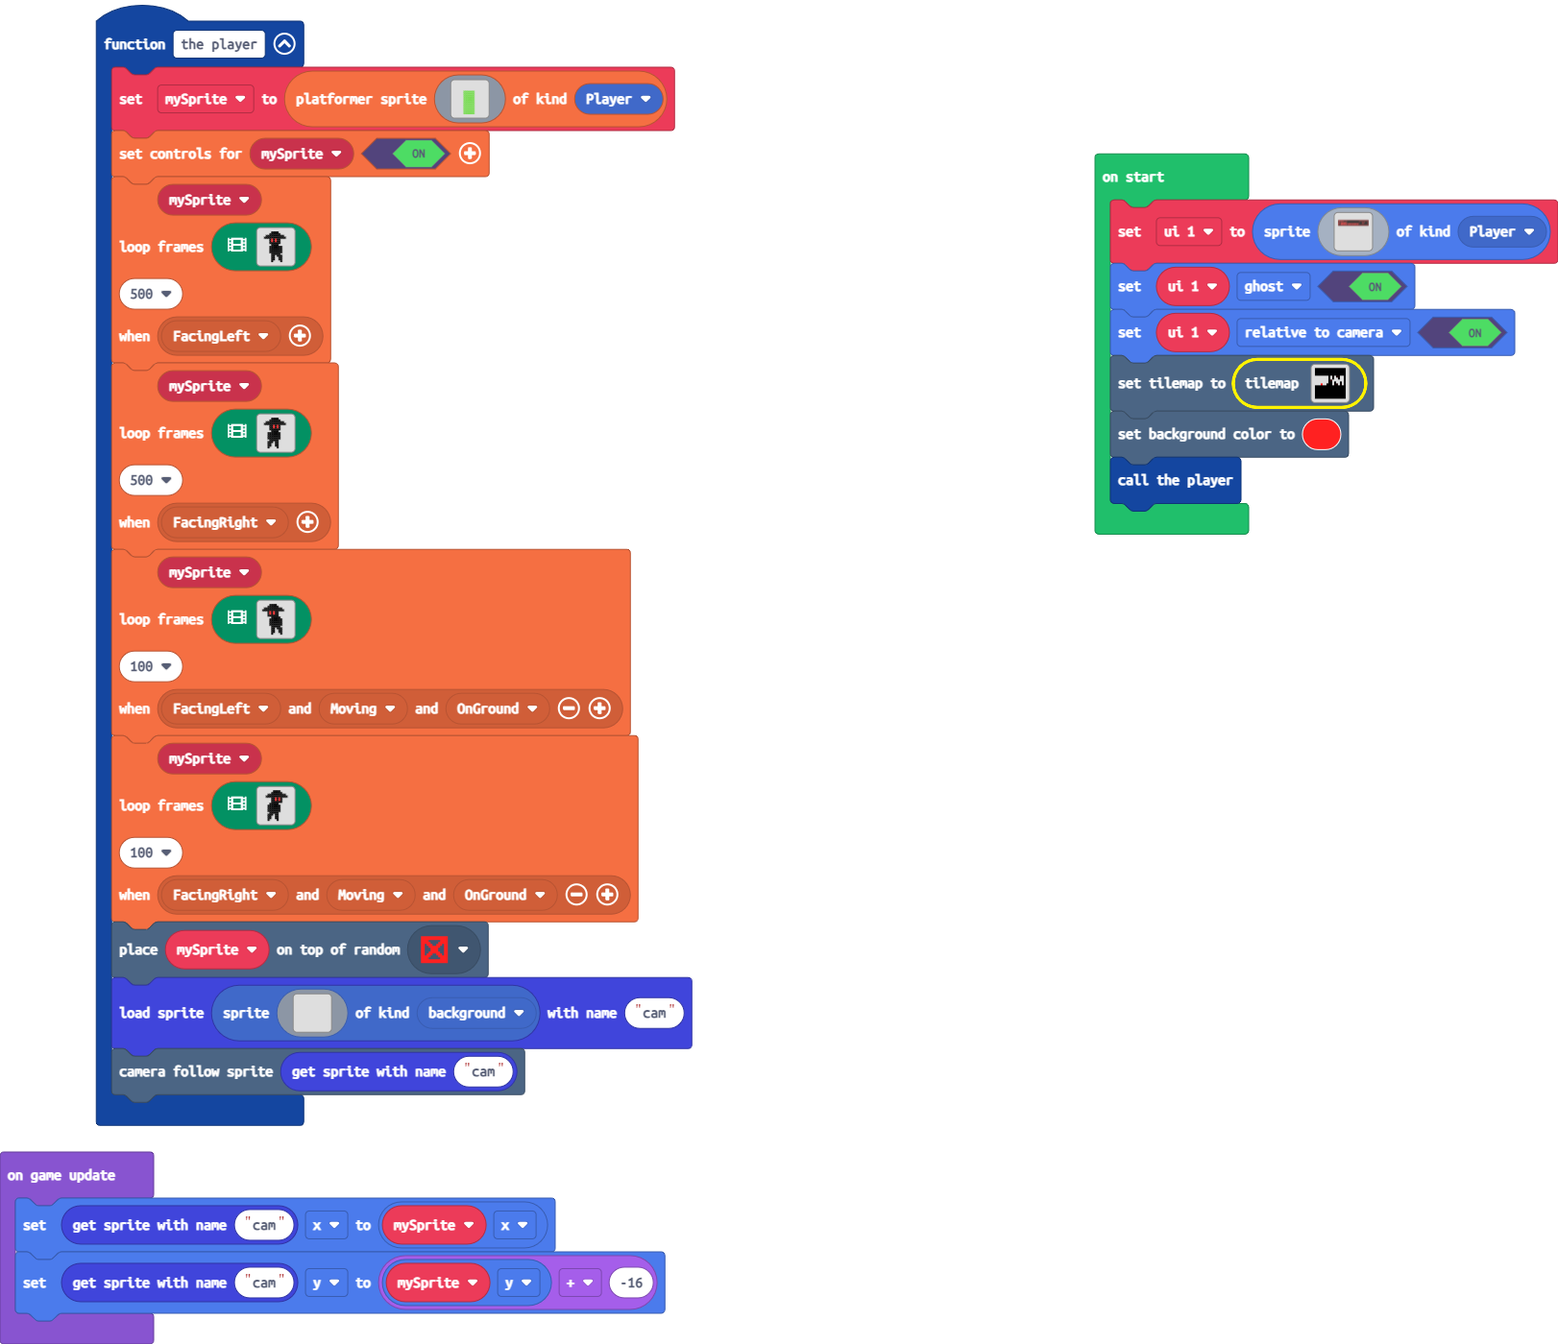
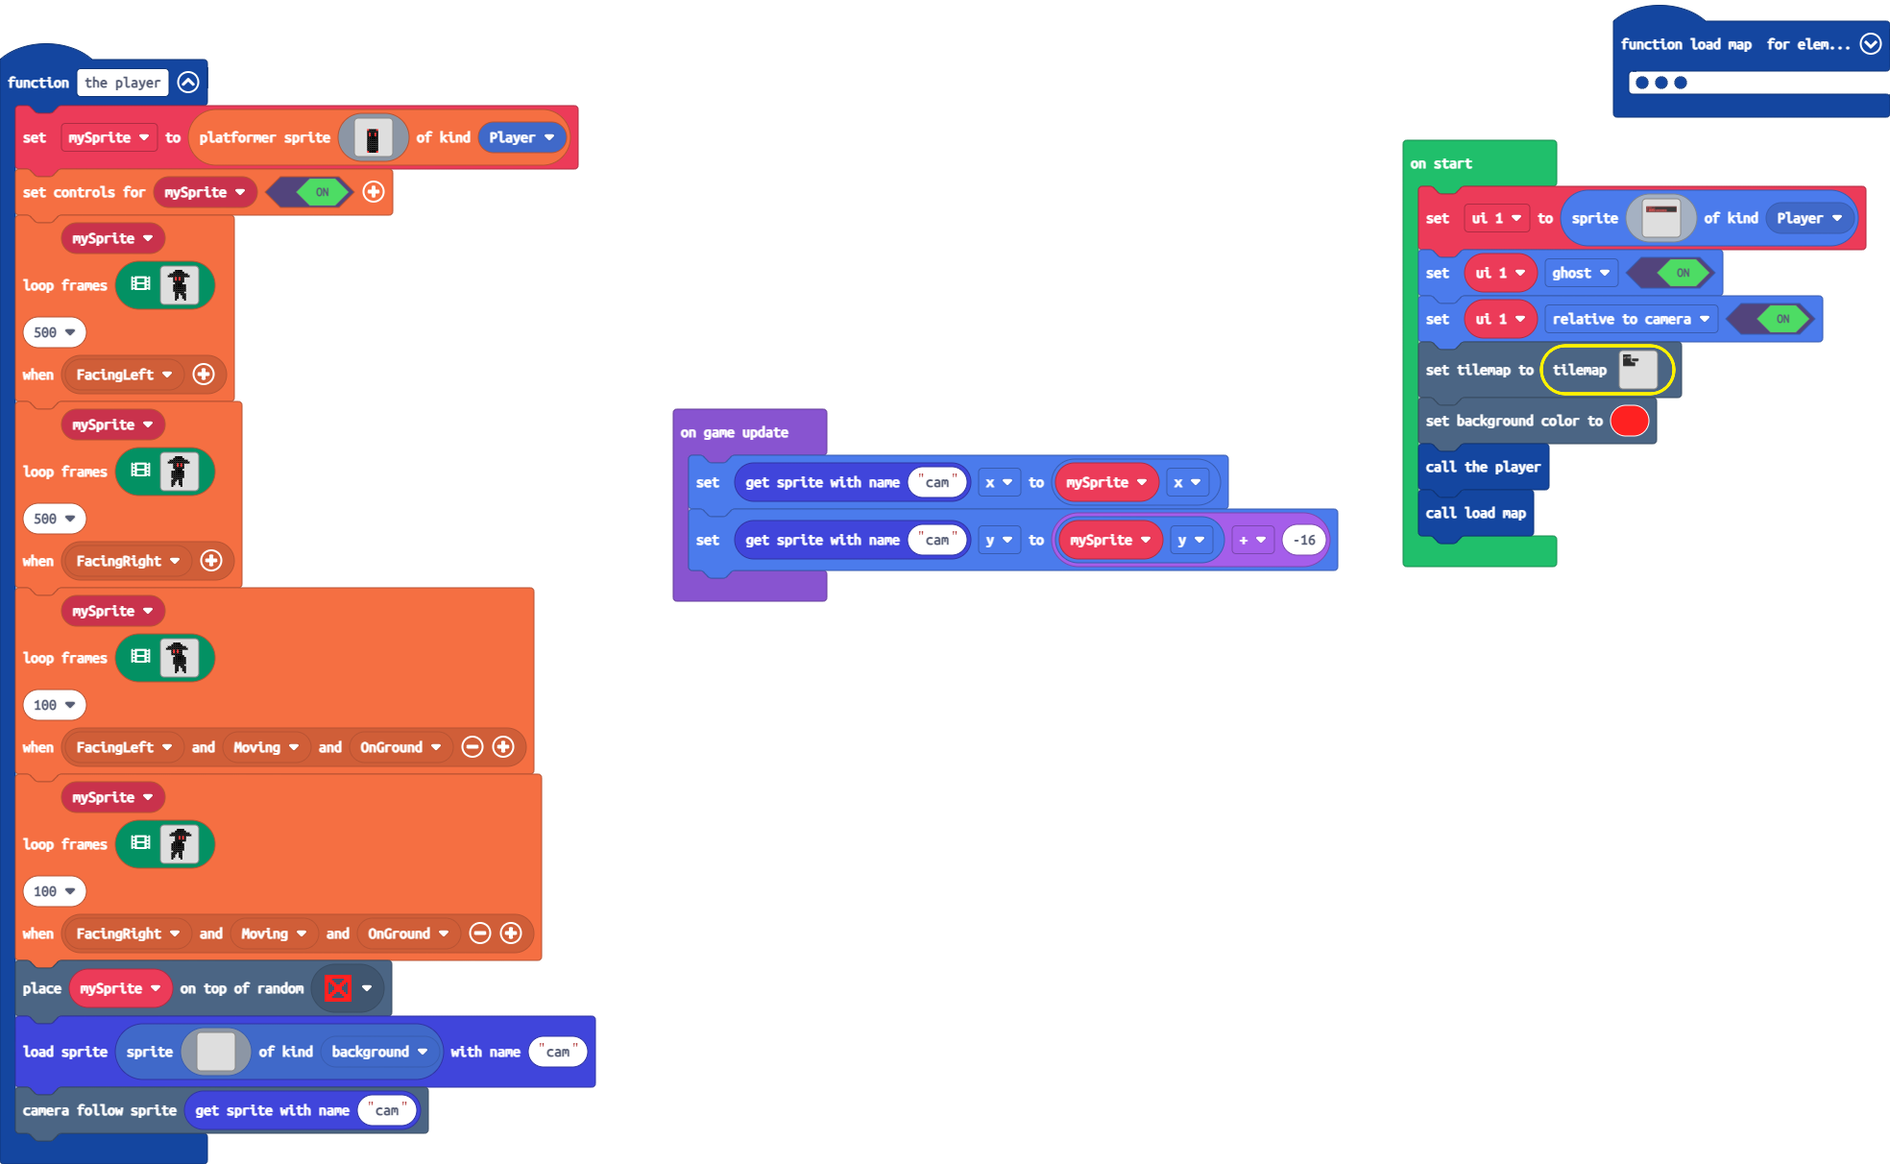
Update pxt.json, main.blocks, main.ts, tilemap.g.jres, tilemap.g.ts

diff --git a/tilemap.g.ts b/tilemap.g.ts
@@ -11,25 +11,21 @@ namespace myTiles {
     //% fixedInstance jres blockIdentity=images._tile
     export const tile4 = image.ofBuffer(hex``);
     //% fixedInstance jres blockIdentity=images._tile
-    export const tile5 = image.ofBuffer(hex``);
-    //% fixedInstance jres blockIdentity=images._tile
     export const tile6 = image.ofBuffer(hex``);
     //% fixedInstance jres blockIdentity=images._tile
-    export const tile7 = image.ofBuffer(hex``);
-    //% fixedInstance jres blockIdentity=images._tile
-    export const tile8 = image.ofBuffer(hex``);
-    //% fixedInstance jres blockIdentity=images._tile
     export const tile9 = image.ofBuffer(hex``);
-    //% fixedInstance jres blockIdentity=images._tile
-    export const tile12 = image.ofBuffer(hex``);
     //% fixedInstance jres blockIdentity=images._tile
     export const tile11 = image.ofBuffer(hex``);
     //% fixedInstance jres blockIdentity=images._tile
     export const tile13 = image.ofBuffer(hex``);
     //% fixedInstance jres blockIdentity=images._tile
-    export const tile10 = image.ofBuffer(hex``);
-    //% fixedInstance jres blockIdentity=images._tile
     export const tile14 = image.ofBuffer(hex``);
+    //% fixedInstance jres blockIdentity=images._tile
+    export const tile5 = image.ofBuffer(hex``);
+    //% fixedInstance jres blockIdentity=images._tile
+    export const tile8 = image.ofBuffer(hex``);
+    //% fixedInstance jres blockIdentity=images._tile
+    export const tile7 = image.ofBuffer(hex``);
 
     helpers._registerFactory("tilemap", function(name: string) {
         switch(helpers.stringTrim(name)) {
@@ -52,25 +48,92 @@ namespace myTiles {
 . . . . . . . . . . . . . . . . 
 . . . . . . . . . . . . . . . . 
 `, [myTiles.transparency16], TileScale.Sixteen);
+            case "level3":
+            case "level3":return tiles.createTilemap(hex`1000100000000000000000000000000000000000000000000000000000000000000000000000000000000000000000000000000000000000000000000000000000000000000000000000000000000000000000000000000000000000000000000000000000000000000000000000000000000000000000000000000000000000000000000000000000000000000000000000000000000000000000000000000000000000000000000000000000000000000000000000000000000000000000000000000000000000000000000000000000000000000000000000000000000000000000000000000000000000000000000000000000000000000000000000000000000000`, img`
+. . . . . . . . . . . . . . . . 
+. . . . . . . . . . . . . . . . 
+. . . . . . . . . . . . . . . . 
+. . . . . . . . . . . . . . . . 
+. . . . . . . . . . . . . . . . 
+. . . . . . . . . . . . . . . . 
+. . . . . . . . . . . . . . . . 
+. . . . . . . . . . . . . . . . 
+. . . . . . . . . . . . . . . . 
+. . . . . . . . . . . . . . . . 
+. . . . . . . . . . . . . . . . 
+. . . . . . . . . . . . . . . . 
+. . . . . . . . . . . . . . . . 
+. . . . . . . . . . . . . . . . 
+. . . . . . . . . . . . . . . . 
+. . . . . . . . . . . . . . . . 
+`, [myTiles.transparency16], TileScale.Sixteen);
             case "testmap":
[1 lines of base64/hex data omitted]
-2 2 2 2 2 2 2 2 2 2 2 2 2 2 2 2 
-2 2 2 2 2 2 2 2 2 2 2 2 2 2 2 2 
-2 2 2 2 2 2 2 2 2 2 2 2 2 2 2 2 
-2 2 2 2 2 2 2 2 2 2 2 2 2 2 2 2 
-. . . . . . . . . . . . . . . . 
-. . . . . . . . . . . . . . . . 
-. . . . . . . . . . . . . . . . 
-. . . . . . . 2 2 . . . . . . . 
-. . . . . . . 2 2 . . . . . . . 
-2 2 2 2 2 2 2 2 2 2 2 2 2 2 2 2 
-2 2 2 2 2 2 2 2 2 2 2 2 2 2 2 2 
-2 2 2 2 2 2 2 2 2 2 2 2 2 2 2 2 
-2 2 2 2 2 2 2 2 2 2 2 2 2 2 2 2 
-2 2 2 2 2 2 2 2 2 2 2 2 2 2 2 2 
-2 2 2 2 2 2 2 2 2 2 2 2 2 2 2 2 
-2 2 2 2 2 2 2 2 2 2 2 2 2 2 2 2 
-`, [myTiles.transparency16,myTiles.tile1,myTiles.tile2,myTiles.tile3,myTiles.tile5,myTiles.tile6,myTiles.tile7,myTiles.tile10,myTiles.tile8,myTiles.tile9,myTiles.tile13,myTiles.tile14], TileScale.Sixteen);
+            case "level2":return tiles.createTilemap(hex`4000400001010101010101010101010101010101000000000000000000000000000000000000000000000000000000000000000000000000000000000000000000000000010101010101010101010101010101010000000000000000000000000000000000000000000000000000000000000000000000000000000000000000000000000101010101010101010101010101010100000000000000000000000000000000000000000000000000000000000000000000000000000000000000000000000001010101010101010101010101010101000000000000000000000000000000000000000000000000000000000000000000000000000000000000000000000000010101010005060700050600050000070000000000000000000000000000000000000000000000000000000000000000000000000000000000000000000000000106050600060007000600000600000700000000000000000000000000000000000000000000000000000000000000000000000000000000000000000000000006000600000000070000000000000007000000000000000000000000000000000000000000000000000000000000000000000000000000000000000000000000000400000004040101000400000400070000000000000000000000000000000000000000000000000000000000000000000000000000000000000000000000000403000200030101010003040003000700000000000000000000000000000000000000000000000000000000000000000000000000000000000000000000000001010101010101010101010101010101080000010101010101010101010101010000000000000000000000000000000000000000000000000000000000000000010101010101010101010101010101010000000101010101010101010101010100000000000000000000000000000000000000000000000000000000000000000101010101010101010101010101010100000001010101010101010101010101000000000000000000000000000000000000000000000000000000000000000001010101010101010101010101010101000000050101010101010101010101010000000000000000000000000000000000000000000000000000000000000000010101010101010101010101010101010000000600010101010101010101010000000000000000000000000000000000000000000000000000000000000000000101010101010101010101010101010100000000000000000000000000000000000000000000000000000000000000000000000000000000000000000000000001010101010101010101010101010101010000000000000000000000000000000000000000000000000000000000000000000000000000000000000000000000010101010101010101010101010101010101010000000000000000000000000000000000000000000000000000000000000000000000000000000000000000000101010101010101010101010101010101010101010101010100000000000000000000000000000000000000000000000000000000000000000000000000000001010101010101010101010101010101010101010101010101000000000000000000000000000000000000000000000000000000000000000000000000000000010101010101010101010101010101010101010101010101010000000000000000000000000000000000000000000000000000000000000000000000000000000101010101010101010101010101010101010101010101010100000000000000000000000000000000000000000000000000000000000000000000000000000001010101010101010101010101010101010101010101010101000000000000000000000000000000000000000000000000000000000000000000000000000000010101010101010101010101010101010101010101010101010000000000000000000000000000000000000000000000000000000000000000000000000000000101010101010101010101010101010101010101010101010100000000000000000000000000000000000000000000000000000000000000000000000000000000000000000000000000000000000000000000000000000000000000000000000000000000000000000000000000000000000000000000000000000000000000000000000000000000000000000000000000000000000000000000000000000000000000000000000000000000000000000000000000000000000000000000000000000000000000000000000000000000000000000000000000000000000000000000000000000000000000000000000000000000000000000000000000000000000000000000000000000000000000000000000000000000000000000000000000000000000000000000000000000000000000000000000000000000000000000000000000000000000000000000000000000000000000000000000000000000000000000000000000000000000000000000000000000000000000000000000000000000000000000000000000000000000000000000000000000000000000000000000000000000000000000000000000000000000000000000000000000000000000000000000000000000000000000000000000000000000000000000000000000000000000000000000000000000000000000000000000000000000000000000000000000000000000000000000000000000000000000000000000000000000000000000000000000000000000000000000000000000000000000000000000000000000000000000000000000000000000000000000000000000000000000000000000000000000000000000000000000000000000000000000000000000000000000000000000000000000000000000000000000000000000000000000000000000000000000000000000000000000000000000000000000000000000000000000000000000000000000000000000000000000000000000000000000000000000000000000000000000000000000000000000000000000000000000000000000000000000000000000000000000000000000000000000000000000000000000000000000000000000000000000000000000000000000000000000000000000000000000000000000000000000000000000000000000000000000000000000000000000000000000000000000000000000000000000000000000000000000000000000000000000000000000000000000000000000000000000000000000000000000000000000000000000000000000000000000000000000000000000000000000000000000000000000000000000000000000000000000000000000000000000000000000000000000000000000000000000000000000000000000000000000000000000000000000000000000000000000000000000000000000000000000000000000000000000000000000000000000000000000000000000000000000000000000000000000000000000000000000000000000000000000000000000000000000000000000000000000000000000000000000000000000000000000000000000000000000000000000000000000000000000000000000000000000000000000000000000000000000000000000000000000000000000000000000000000000000000000000000000000000000000000000000000000000000000000000000000000000000000000000000000000000000000000000000000000000000000000000000000000000000000000000000000000000000000000000000000000000000000000000000000000000000000000000000000000000000000000000000000000000000000000000000000000000000000000000000000000000000000000000000000000000000000000000000000000000000000000000000000000000000000000000000000000000000000000000000000000000000000000000000000000000000000000000000000000000000000000000000000000000000000000000000000000000000000000000000000000000000000000000000000000000000000000000000000000000000000000000000000000000000000000000000000000000000000000000000000000000000000000000000000000000000000000000000000000000000000000000000000000000000000000000000000000000000000000000000000000000000000000000000000000000000000000000000000000000000000000000000000000000000000000000000000000000000000000000000000000000000000000000000000000000000000000000000000000000000000000000000000000000000000000000000000000000000000000000000000000000000000000000000000000000000000000000000000000000000000000000000000000000000000000000000000000000000000000000000000000000000000000000000000000000000000000000000000000000000000000000000000000000000000000000000000000000000000000000000000000000000000000000000000000000000000000000000000000000000000000000000000000000000000000000000000000000000000000000000000000000000000000000000000000000000000000000000000000000000000000000000000000000000000000000000000000000000000000000000000000000000000000000000000000000000000000000000000000000000000000000000000000000000000000000000000000000000000000000000000000000000000000000000000000000000000000000000000000000000000000000000000000000000000000000000000000000000000000000000000000000000000000000000000000000000000000000000000000000000000000000000000000000000000000000000000000000000000000000000000000000000000000000000000000000000000000000000000000000000000000000000000000000000000000000000000000000000000000000000000000000000000000000000000000000000000000000000000000000000000000000000000000000000000000000000000000000000000000000000000000000000000000000000000000000000000000000000000000000000000000000000000000000000000000000000000000000000000000000000000000000000000000000000000000000000000000000000000000000000000000000000000000000000000000000000000000000000000000000000000000000000000000000000000000000000000000000000000000000000000000000000000000000000000000000000000000000000000000000000000000000000000000000000000000000000000000000000000000000000000000000000000000000000000000000000000000000000000000000000000000000000000000000000000000000000000000000000000000000000000000000000000000000000000000000000000000000000000000000000000000000000000000000000000000000000000000000000000000000000000000000000000000000000000000000000000000`, img`
+2222222222222222................................................
+2222222222222222................................................
+2222222222222222................................................
+2222222222222222................................................
+2222............................................................
+2...............................................................
+................................................................
+.......22.......................................................
+......222.......................................................
+22222222222222222..2222222222222................................
+2222222222222222...2222222222222................................
+2222222222222222...2222222222222................................
+2222222222222222....222222222222................................
+2222222222222222.....2222222222.................................
+2222222222222222................................................
+22222222222222222...............................................
+2222222222222222222.............................................
+2222222222222222222222222.......................................
+2222222222222222222222222.......................................
+2222222222222222222222222.......................................
+2222222222222222222222222.......................................
+2222222222222222222222222.......................................
+2222222222222222222222222.......................................
+2222222222222222222222222.......................................
+................................................................
+................................................................
+................................................................
+................................................................
+................................................................
+................................................................
+................................................................
+................................................................
+................................................................
+................................................................
+................................................................
+................................................................
+................................................................
+................................................................
+................................................................
+................................................................
+................................................................
+................................................................
+................................................................
+................................................................
+................................................................
+................................................................
+................................................................
+................................................................
+................................................................
+................................................................
+................................................................
+................................................................
+................................................................
+................................................................
+................................................................
+................................................................
+................................................................
+................................................................
+................................................................
+................................................................
+................................................................
+................................................................
+................................................................
+................................................................
+`, [myTiles.transparency16,myTiles.tile1,myTiles.tile2,myTiles.tile5,myTiles.tile6,myTiles.tile8,myTiles.tile9,myTiles.tile13,myTiles.tile7], TileScale.Sixteen);
         }
         return null;
     })
@@ -86,26 +149,22 @@ namespace myTiles {
             case "tile3":return tile3;
             case "myTile2":
             case "tile4":return tile4;
-            case "myTile3":
-            case "tile5":return tile5;
             case "myTile4":
             case "tile6":return tile6;
-            case "myTile5":
-            case "tile7":return tile7;
-            case "myTile6":
-            case "tile8":return tile8;
             case "myTile7":
             case "tile9":return tile9;
-            case "myTile10":
-            case "tile12":return tile12;
             case "myTile9":
             case "tile11":return tile11;
             case "myTile11":
             case "tile13":return tile13;
-            case "myTile8":
-            case "tile10":return tile10;
             case "myTile12":
             case "tile14":return tile14;
+            case "myTile3":
+            case "tile5":return tile5;
+            case "myTile6":
+            case "tile8":return tile8;
+            case "myTile5":
+            case "tile7":return tile7;
         }
         return null;
     })

diff --git a/main.ts b/main.ts
@@ -7,19 +7,19 @@ function the_player () {
         . . . . . . . . . . . . . . . . 
         . . . . . . . . . . . . . . . . 
         . . . . . . . . . . . . . . . . 
-        . . . . . 7 7 7 7 7 7 . . . . . 
-        . . . . . 7 7 7 7 7 7 . . . . . 
-        . . . . . 7 7 7 7 7 7 . . . . . 
-        . . . . . 7 7 7 7 7 7 . . . . . 
-        . . . . . 7 7 7 7 7 7 . . . . . 
-        . . . . . 7 7 7 7 7 7 . . . . . 
-        . . . . . 7 7 7 7 7 7 . . . . . 
-        . . . . . 7 7 7 7 7 7 . . . . . 
-        . . . . . 7 7 7 7 7 7 . . . . . 
-        . . . . . 7 7 7 7 7 7 . . . . . 
-        . . . . . 7 7 7 7 7 7 . . . . . 
-        . . . . . 7 7 7 7 7 7 . . . . . 
-        . . . . . 7 7 7 7 7 7 . . . . . 
+        . . . . . 2 f f f f 2 . . . . . 
+        . . . . . f f f f f f . . . . . 
+        . . . . . f 2 f f 2 f . . . . . 
+        . . . . . f 2 f f 2 f . . . . . 
+        . . . . . f f f f f f . . . . . 
+        . . . . . f f f f f f . . . . . 
+        . . . . . f f f f f f . . . . . 
+        . . . . . f f f f f f . . . . . 
+        . . . . . f f f f f f . . . . . 
+        . . . . . f f f f f f . . . . . 
+        . . . . . f f f f f f . . . . . 
+        . . . . . f f f f f f . . . . . 
+        . . . . . 2 f f f f 2 . . . . . 
         `, SpriteKind.Player)
     platformer.moveSprite(mySprite, true)
     platformer.loopFrames(
@@ -319,33 +319,74 @@ function the_player () {
         `, SpriteKind.background))
     scene.cameraFollowSprite(declutter.get("cam"))
 }
+function load_map () {
+    for (let value of tiles.getTilesByType(assets.tile`myTile3`)) {
+        image2 = assets.tile`myTile3`.clone()
+        if (tiles.tileAtLocationIsWall(value.getNeighboringLocation(CollisionDirection.Bottom))) {
+            image2.drawLine(0, 15, 15, 15, 0)
+        }
+        tiles.setTileAt(value, image2)
+    }
+    for (let value of tiles.getTilesByType(assets.tile`myTile4`)) {
+        image2 = assets.tile`myTile4`.clone()
+        if (tiles.tileAtLocationIsWall(value.getNeighboringLocation(CollisionDirection.Bottom))) {
+            image2.drawLine(0, 15, 15, 15, 0)
+        }
+        tiles.setTileAt(value, image2)
+    }
+    for (let value of tiles.getTilesByType(assets.tile`myTile6`)) {
+        image2 = assets.tile`myTile6`.clone()
+        if (tiles.tileAtLocationIsWall(value.getNeighboringLocation(CollisionDirection.Top))) {
+            image2.drawLine(0, 0, 15, 0, 0)
+        }
+        tiles.setTileAt(value, image2)
+    }
+    for (let value of tiles.getTilesByType(assets.tile`myTile7`)) {
+        image2 = assets.tile`myTile7`.clone()
+        if (tiles.tileAtLocationIsWall(value.getNeighboringLocation(CollisionDirection.Top))) {
+            image2.drawLine(0, 0, 15, 0, 0)
+        }
+        tiles.setTileAt(value, image2)
+    }
+    for (let value of tiles.getTilesByType(assets.tile`myTile11`)) {
+        image2 = assets.tile`myTile11`.clone()
+        if (tiles.tileAtLocationIsWall(value.getNeighboringLocation(CollisionDirection.Top))) {
+            image2.drawLine(0, 0, 15, 0, 0)
+        }
+        if (tiles.tileAtLocationIsWall(value.getNeighboringLocation(CollisionDirection.Bottom))) {
+            image2.drawLine(0, 15, 15, 15, 0)
+        }
+        tiles.setTileAt(value, image2)
+    }
+}
+let image2: Image = null
 let mySprite: platformer.PlatformerSprite = null
 let ui_1 = sprites.create(img`
     .ffffffffffffffffffffffffffffffffffffffffffffffffffffffffffffffffffffffffffffffffffffffffffffffffffffffffffffffffffffffffffffffffffffffffffffffffffffffffffffff.
[48 lines of base64/hex data omitted]
@@ -447,6 +488,7 @@ ui_1.setFlag(SpriteFlag.RelativeToCamera, true)
 tiles.setCurrentTilemap(tilemap`testmap`)
 scene.setBackgroundColor(2)
 the_player()
+load_map()
 game.onUpdate(function () {
     declutter.get("cam").x = mySprite.x
     declutter.get("cam").y = mySprite.y + -16
